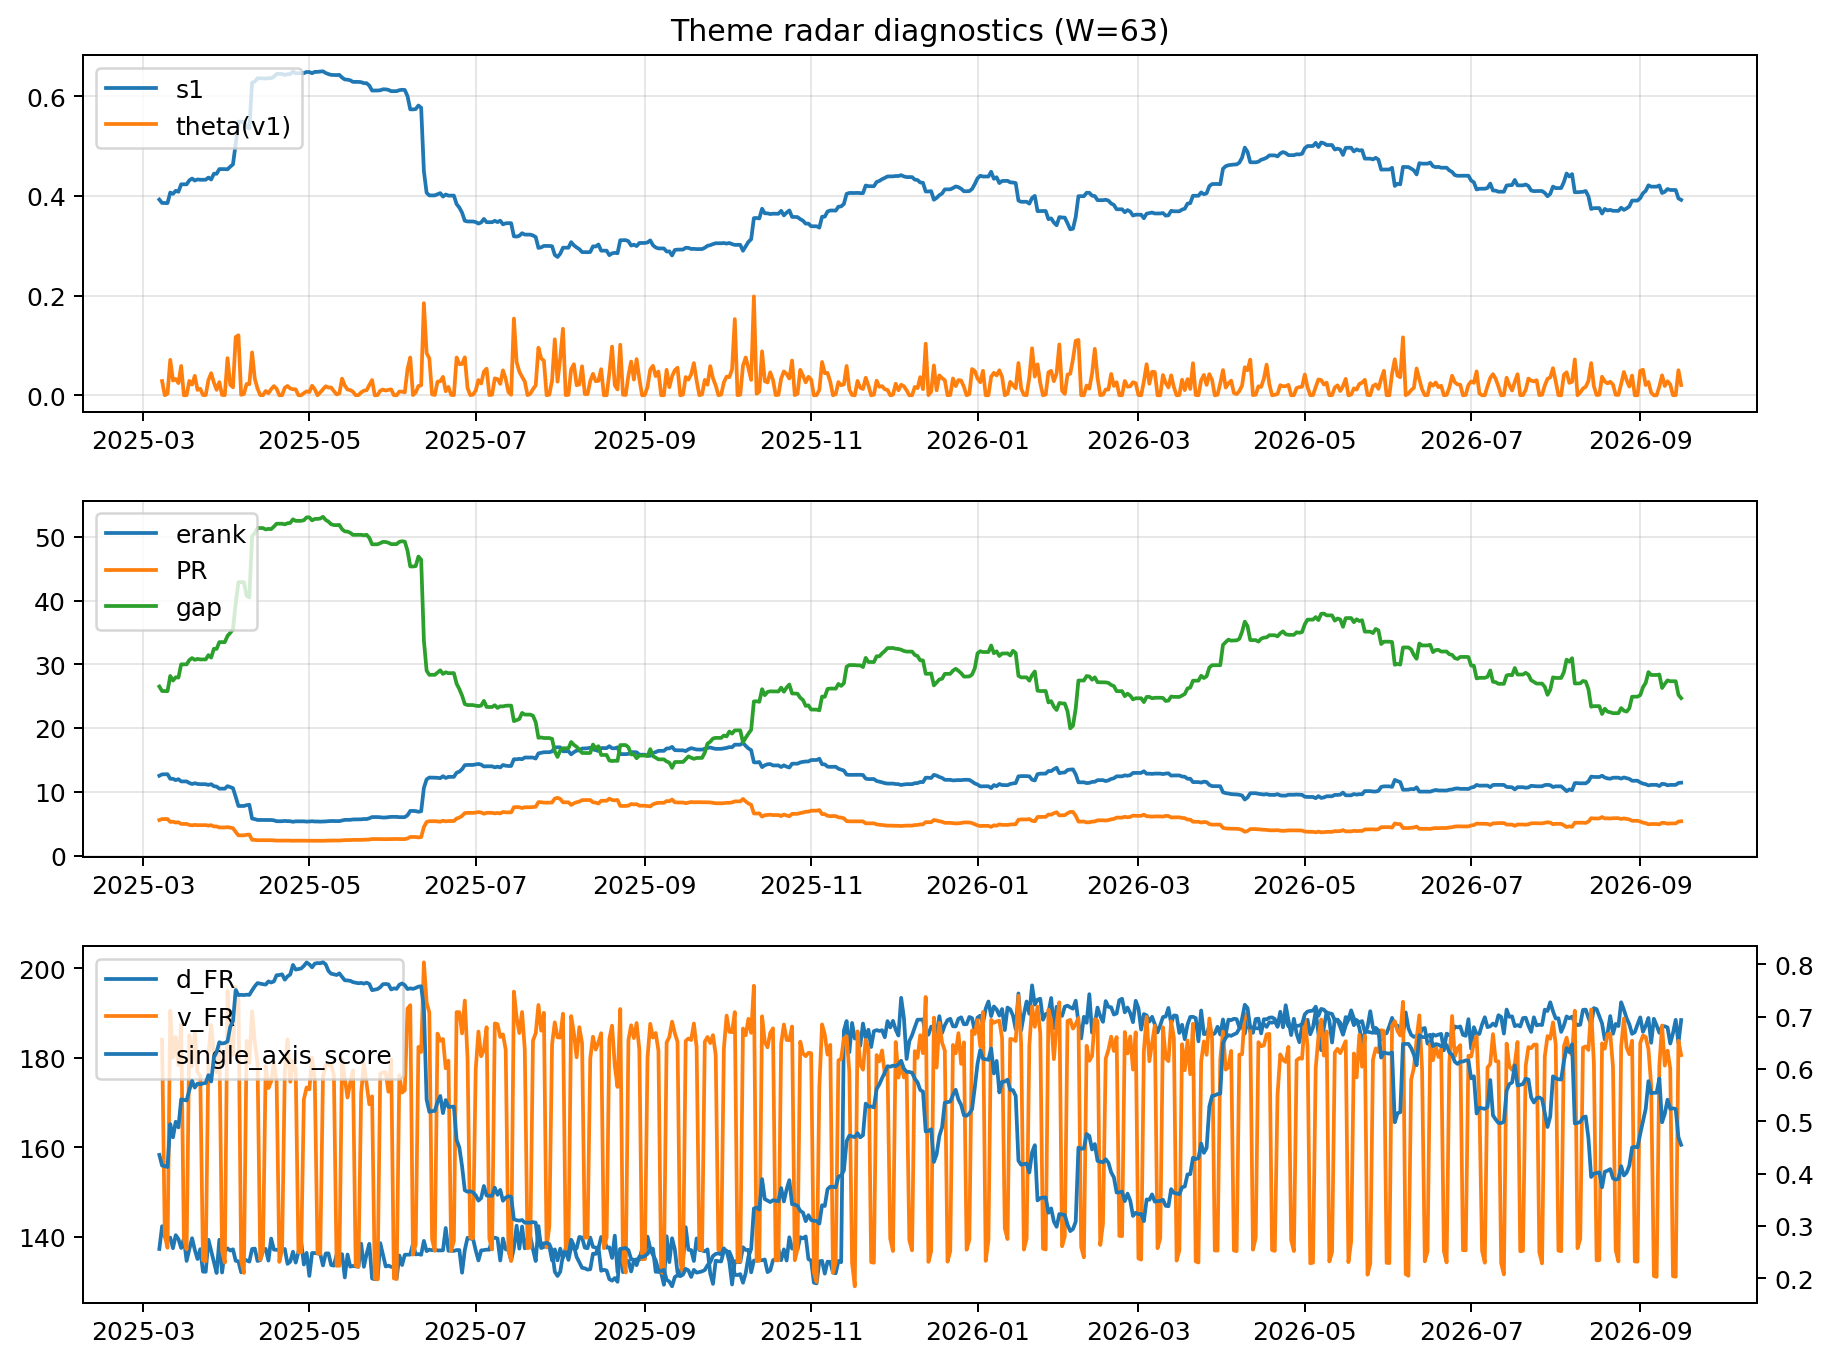
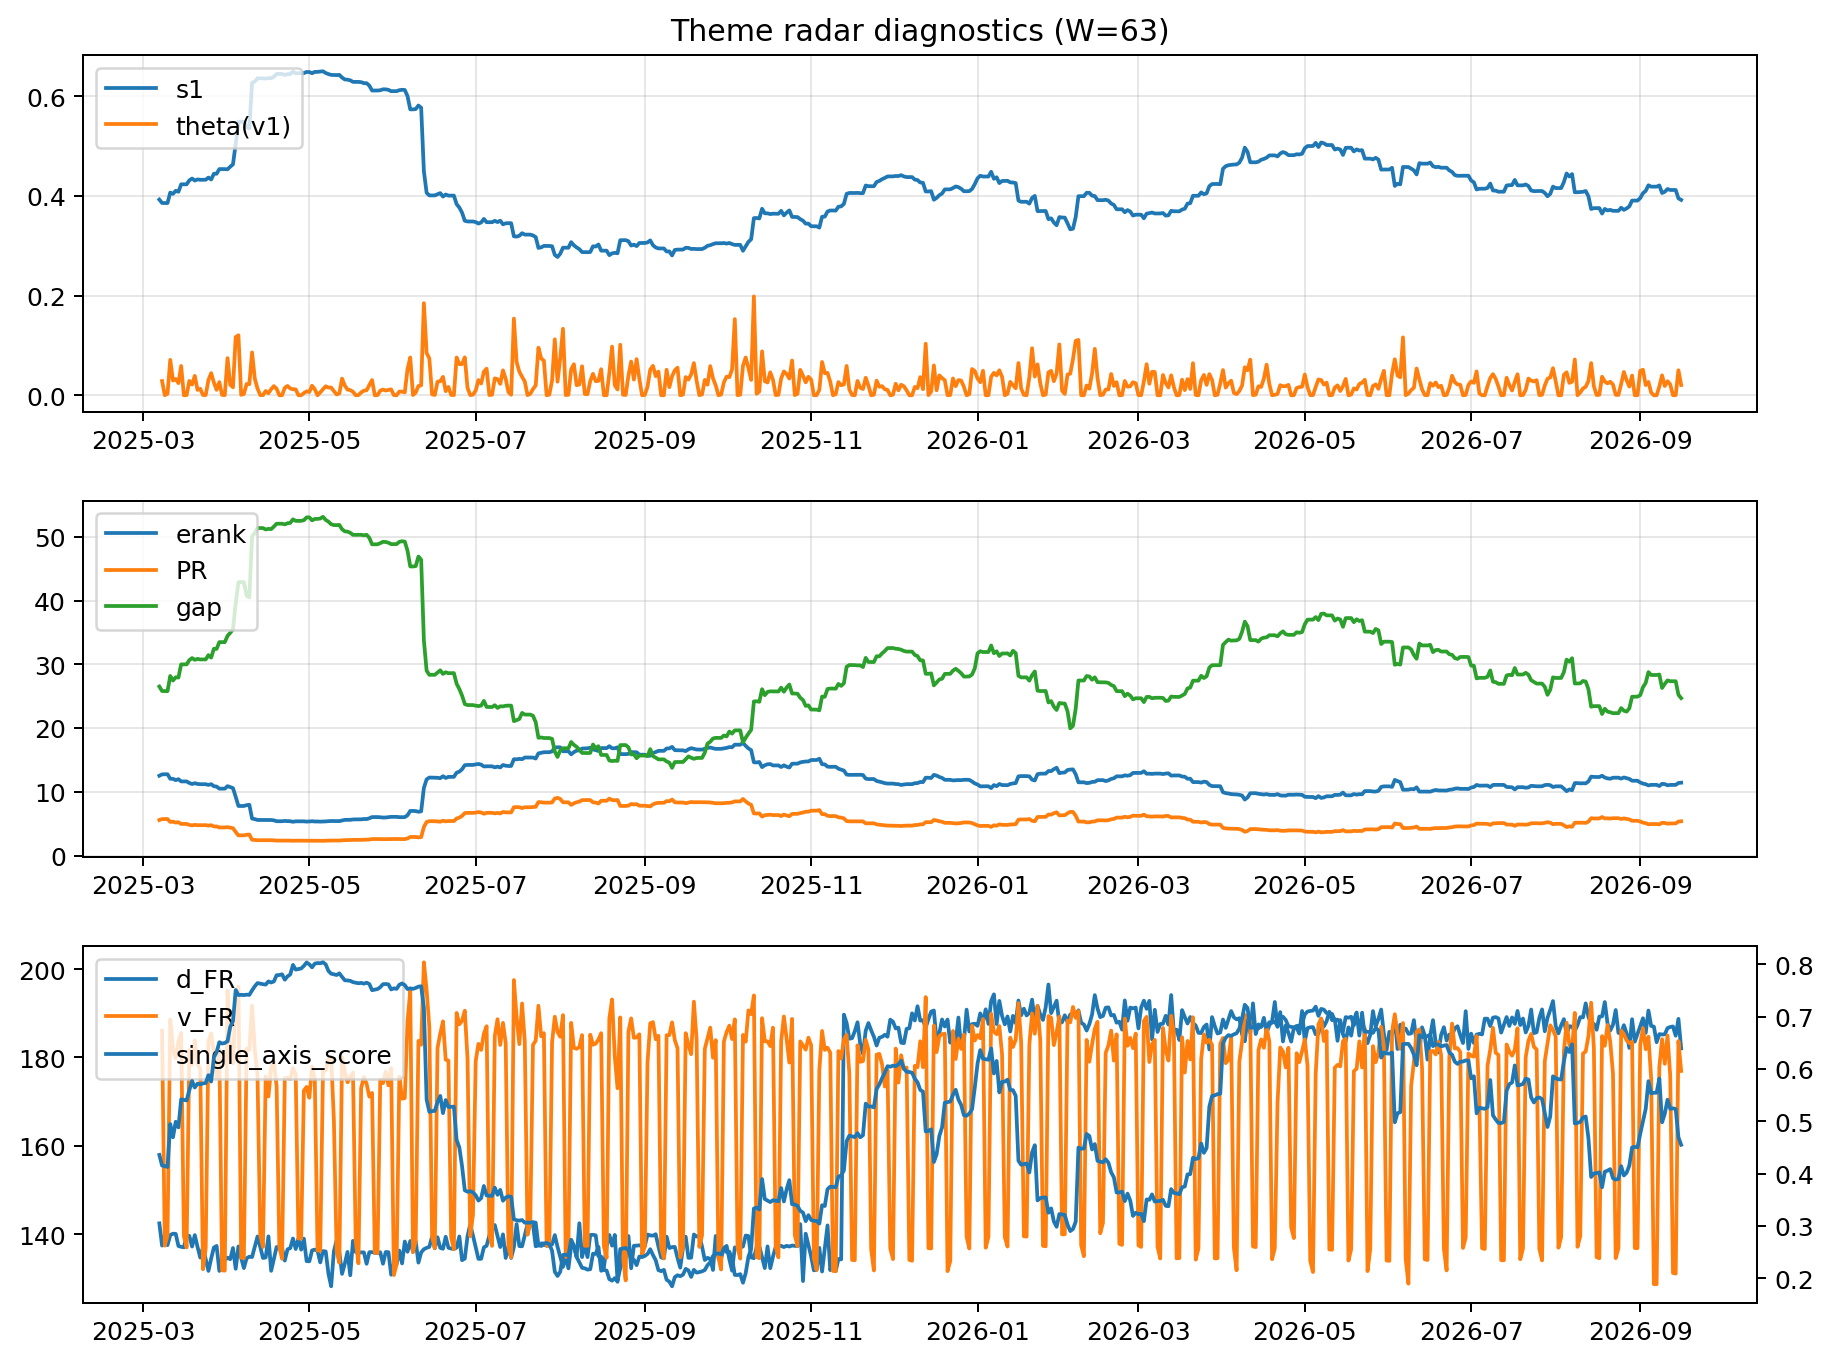
log: 2026-09-16 | sha256:33e8301331983170298953bae9cd278bdd26a848160a5484e34ca916e0eea1e7

diff --git a/logs/2026-09-16.md b/logs/2026-09-16.md
@@ -3,43 +3,43 @@
 ![diagnostic W63](../assets/diagnostic/2026-09-16_W63.png)
 
 ## Leaders (v1) — W=63
-- **Nuclear_Uranium** (0.0853865499341676)
-- Semis (0.0705402341906911)
-- Quantum (0.0637594463894835)
+- **Nuclear_Uranium** (0.0853865459557179)
+- Semis (0.0705402286527217)
+- Quantum (0.0637594432040636)
 
 ## Challengers — W=63
-**v2:** Rates (0.0908759870425582), Semis (0.0796386834845229), Genomics_Bio (0.0683256442453392)
-**v3:** Metals (0.0826935145216949), Genomics_Bio (0.0745590010571524), Crypto (0.0740747523276734)
+**v2:** Rates (0.0908758629110453), Semis (0.0796387196819894), Genomics_Bio (0.0683256619444913)
+**v3:** Metals (0.0826935239450427), Genomics_Bio (0.0745590112426354), Crypto (0.0740747673949743)
 
 ## Migration (20D slope) — W=63
 **Top risers:**
-- axis_DataCenter_Infra: 0.0006253941000778
-- axis_Genomics_Bio: 0.0003913823215395
-- axis_MegaCap_AI: 0.0002857651476731
-- axis_Space: 0.0002478483855228
-- axis_Crypto: 0.0002307508465562
-- axis_Metals: 0.0001723520977706
-- axis_Drones_Autonomy: 0.000136613081914
-- axis_Sector_Fin: 0.0001312134297448
-- axis_Rates: 0.000109091603032
-- axis_Sector_Materials: 9.500668688162736e-05
+- axis_DataCenter_Infra: 0.000625394271238
+- axis_Genomics_Bio: 0.0003913824751298
+- axis_MegaCap_AI: 0.0002857653208006
+- axis_Space: 0.0002478485908751
+- axis_Crypto: 0.0002307508961644
+- axis_Metals: 0.0001723523362842
+- axis_Drones_Autonomy: 0.0001366131196105
+- axis_Sector_Fin: 0.0001312134137798
+- axis_Rates: 0.0001090885646588
+- axis_Sector_Materials: 9.500669230957264e-05
 
 **Top fallers:**
-- axis_Quantum: -0.0001212264849513
-- axis_Sector_ConsStap: -0.0001230649008977
-- axis_Grid_Power: -0.0001403406487096
-- axis_Sector_Utilities: -0.0001461736644834
-- axis_Critical_Minerals: -0.0001494925803059
-- axis_Sector_Energy: -0.0001679307462998
-- axis_Semis: -0.0001786529079698
-- axis_Cyber: -0.0002116361073157
-- axis_Sector_RealEstate: -0.0003135040804314
-- axis_Nuclear_Uranium: -0.0004365505442253
+- axis_Quantum: -0.0001212261480285
+- axis_Sector_ConsStap: -0.0001230648125898
+- axis_Grid_Power: -0.0001403402894562
+- axis_Sector_Utilities: -0.00014617367883
+- axis_Critical_Minerals: -0.0001494923202807
+- axis_Sector_Energy: -0.0001679307595514
+- axis_Semis: -0.000178652509361
+- axis_Cyber: -0.0002116360512572
+- axis_Sector_RealEstate: -0.0003135040164221
+- axis_Nuclear_Uranium: -0.0004365500754884
 
 ## Risk line (W=63)
-- s1: 0.3919813085050355
-- theta_v1: 0.0206058100590882
-- v_FR: 180.618978335146
+- s1: 0.3919813325422209
+- theta_v1: 0.0206058198683455
+- v_FR: 176.9554404142214
 - single_axis_score: 0.4550983899821109
 
 ## Interpretation
@@ -48,7 +48,7 @@
 - Action: Tomorrow watchlist: DataCenter_Infra, Genomics_Bio, MegaCap_AI, Space, Crypto + v2_top1=Rates
 - Action: Hedge note: normal correlation stability.
 
-- Percentiles (W=63 history): vfr_pct=0.51, theta_pct=0.52, s1_pct=0.39, score_pct=0.42.
+- Percentiles (W=63 history): vfr_pct=0.37, theta_pct=0.52, s1_pct=0.39, score_pct=0.42.
 
 ---
[2 lines of base64/hex data omitted]
